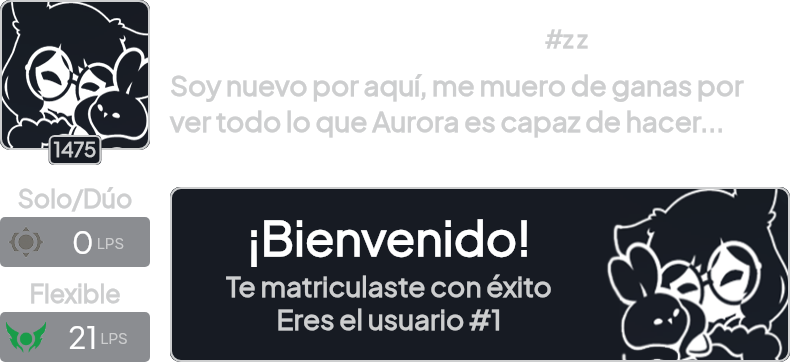
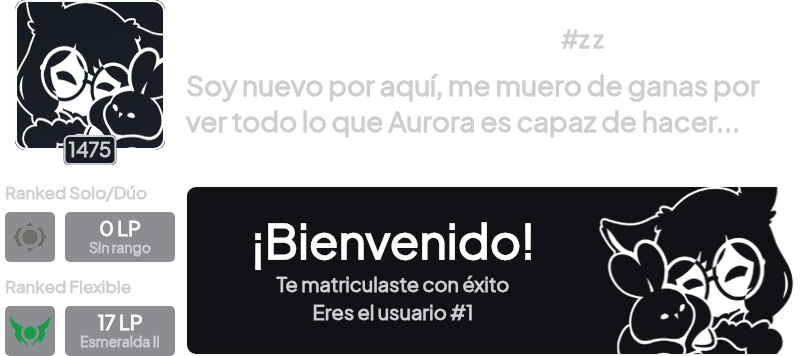
Nueva Tarjeta y cambios en rutas

diff --git a/Modulos/Principales/Matricula/canvas_matricula.js b/Modulos/Principales/Matricula/canvas_matricula.js
@@ -16,6 +16,22 @@ let avatarFijoCache = null;
 let bannerCache = null;
 const emblemasCache = new Map();
 
+const TRADUCTOR_RANGOS = {
+    'IRON': 'Hierro', 'BRONZE': 'Bronce', 'SILVER': 'Plata', 'GOLD': 'Oro',
+    'PLATINUM': 'Platino', 'EMERALD': 'Esmeralda', 'DIAMOND': 'Diamante',
+    'MASTER': 'Maestro', 'GRANDMASTER': 'Gran Maestro', 'CHALLENGER': 'Retador',
+    'UNRANKED': 'Sin rango'
+};
+
+function formatearRango(tier, rank) {
+    if (!tier || tier === 'UNRANKED') return 'Sin rango';
+    const tierTraducido = TRADUCTOR_RANGOS[tier] || tier;
+    if (['MASTER', 'GRANDMASTER', 'CHALLENGER'].includes(tier)) {
+        return tierTraducido; 
+    }
+    return `${tierTraducido} ${rank || ''}`.trim();
+}
+
 async function loadAvatarFijo() {
     if (avatarFijoCache) return avatarFijoCache;
     avatarFijoCache = await loadImage('https://i.imgur.com/gXeTtUr.png');
@@ -24,7 +40,7 @@ async function loadAvatarFijo() {
 
 async function loadBanner() {
     if (bannerCache) return bannerCache;
-    bannerCache = await loadImage('https://i.imgur.com/1LzQDJq.png');
+    bannerCache = await loadImage('https://i.imgur.com/FtTM90D.png');
     return bannerCache;
 }
 
@@ -82,123 +98,111 @@ function calcularAlturaTexto(ctx, texto, maxWidth, lineHeight, fontSize) {
     return (numLineas - 1) * lineHeight + fontSize;
 }
 
-async function dibujarBloqueRango(ctx, x, y, numeroLPs, rangoUrl, anchoFijo = null) {
-    const cuadradoPequenoSize = 50;
+async function dibujarBloqueRango(ctx, x, y, numeroLPs, rangoUrl, textoInferior) {
+    const cajaSize = 50;
+    const gap = 10; 
+    const anchoCajaTexto = 110; 
     const radio = 5;
-    const numeroFontSize = 30;
-    const lpsFontSize = numeroFontSize - 15;
-    const separacionTexto = 3;
 
     ctx.fillStyle = 'rgba(23, 27, 35, 0.5)';
     ctx.beginPath();
-    ctx.roundRect(x, y, cuadradoPequenoSize, cuadradoPequenoSize, [radio, 0, 0, radio]);
+    ctx.roundRect(x, y, cajaSize, cajaSize, radio);
     ctx.fill();
 
     try {
         const imagenRango = await loadEmblema(rangoUrl);
-        ctx.drawImage(imagenRango, x + 1, y, cuadradoPequenoSize, cuadradoPequenoSize);
+        ctx.drawImage(imagenRango, x, y, cajaSize, cajaSize);
     } catch {}
+
+    const rectTextoX = x + cajaSize + gap;
+    ctx.fillStyle = 'rgba(23, 27, 35, 0.5)';
+    ctx.beginPath();
+    ctx.roundRect(rectTextoX, y, anchoCajaTexto, cajaSize, radio);
+    ctx.fill();
 
     let numeroTexto = numeroLPs >= 1000 ? `${(numeroLPs / 1000).toFixed(1).replace('.0', '')}k` : numeroLPs.toString();
 
-    let rectTextoWidth;
-    if (anchoFijo) {
-        rectTextoWidth = anchoFijo - cuadradoPequenoSize;
-    } else {
-        ctx.font = `${numeroFontSize}px "Plus Jakarta Sans"`;
-        const nW = ctx.measureText(numeroTexto).width;
-        ctx.font = `${lpsFontSize}px "Plus Jakarta Sans"`;
-        const lW = ctx.measureText('LPS').width;
-        rectTextoWidth = nW + separacionTexto + lW + 20;
-    }
-
-    const rectTextoHeight = 50;
-    const rectTextoX = x + cuadradoPequenoSize;
-    const rectTextoY = y;
-
-    ctx.fillStyle = 'rgba(23, 27, 35, 0.5)';
-    ctx.beginPath();
-    ctx.roundRect(rectTextoX, rectTextoY, rectTextoWidth, rectTextoHeight, [0, radio, radio, 0]);
-    ctx.fill();
-
-    const textoInicio = 46;
-    const anchoAreaTexto = (cuadradoPequenoSize + rectTextoWidth) - textoInicio;
-
-    ctx.font = `${numeroFontSize}px "Plus Jakarta Sans"`;
-    const numeroWidth = ctx.measureText(numeroTexto).width;
-    ctx.font = `${lpsFontSize}px "Plus Jakarta Sans"`;
-    const lpsWidth = ctx.measureText('LPS').width;
-    const textoInicioX = x + textoInicio + (anchoAreaTexto - (numeroWidth + separacionTexto + lpsWidth)) / 2;
+    ctx.textAlign = 'center';
+    ctx.textBaseline = 'top';
 
     ctx.fillStyle = '#ffffff';
-    ctx.font = `${numeroFontSize}px "Plus Jakarta Sans"`;
-    ctx.textAlign = 'left';
-    ctx.textBaseline = 'middle';
-    ctx.fillText(numeroTexto, textoInicioX, rectTextoY + rectTextoHeight / 2);
+    ctx.font = 'bold 20px "Plus Jakarta Sans"';
+    ctx.fillText(`${numeroTexto} LP`, rectTextoX + (anchoCajaTexto / 2), y + 7);
 
     ctx.fillStyle = '#CDCECF';
-    ctx.font = `${lpsFontSize}px "Plus Jakarta Sans"`;
-    ctx.fillText('LPS', textoInicioX + numeroWidth + separacionTexto, rectTextoY + rectTextoHeight / 2);
+    ctx.font = 'bold 14px "Plus Jakarta Sans"'; 
+    ctx.fillText(textoInferior, rectTextoX + (anchoCajaTexto / 2), y + 29);
 
-    return cuadradoPequenoSize + rectTextoWidth;
+    return cajaSize + gap + anchoCajaTexto;
 }
 
 async function generarTarjetaMatricula(datos) {
     const { gameName, tagLine, nivel, iconoId, soloq, flex, descripcion, numeroUsuario } = datos;
 
+    // 👇 AJUSTE DE MARGEN GLOBAL (5px izquierda, 5px derecha) 👇
+    const margenLateral = 5;
+
     const radioEsquinas = 10;
-    const margenLateral = 20;
-    const cuadradoSize = 150;
-    const tituloX = cuadradoSize + margenLateral;
-    const tituloFontSize = 48;
+    const cuadradoSize = 150; 
+    
+    const anchoBloqueLPs = 170; 
+    const gapGeneral = 11; 
+    
+    // Todos los elementos X se empujan 5px a la derecha sumando margenLateral
+    const tituloX = margenLateral + anchoBloqueLPs + gapGeneral; 
+    const tituloFontSize = 48; 
     const tagFontSize = tituloFontSize - 25;
     const descripcionFontSize = tagFontSize + 5;
-    const maxWidth = 800 - tituloX - 10;
+    
+    // El margen derecho también será de 5px (800 - X - 5)
+    const maxWidth = 800 - tituloX - margenLateral; 
+    
     const lineHeight = descripcionFontSize + 8;
 
     const rectBadgeAlto = 20 + 10;
     const inicioBloquesY = cuadradoSize - (rectBadgeAlto / 2) + rectBadgeAlto + 22;
 
     const cuadradoPequenoSize = 50;
-    const margenTituloBloque = 5;
+    const tituloRangoFontSize = 17; 
 
-    // Aquí independizamos el tamaño del texto para que no se vea raro
-    const tituloRangoFontSize = 25; 
-
-    const tituloRango1Y = inicioBloquesY;
-    const bloque1Y = tituloRango1Y + tituloRangoFontSize + margenTituloBloque;
-    const tituloRango2Y = bloque1Y + cuadradoPequenoSize + 15;
-    const bloque2Y = tituloRango2Y + tituloRangoFontSize + margenTituloBloque;
+    const tituloRango1Y = inicioBloquesY - 3; 
+    const bloque1Y = tituloRango1Y + 28; 
+    const tituloRango2Y = bloque1Y + cuadradoPequenoSize + 16; 
+    const bloque2Y = tituloRango2Y + 28; 
+    
     const finBloque2 = bloque2Y + cuadradoPequenoSize;
 
     const canvas = createCanvas(800, finBloque2);
     const ctx = canvas.getContext('2d');
 
-    ctx.fillStyle = '#1e2328';
+    // Centrado dinámico del Avatar sobre los bloques que ahora inician en 5px
+    const avatarX = margenLateral + 10;
+
+    ctx.fillStyle = '#101216';
     ctx.beginPath();
-    ctx.roundRect(0, 0, cuadradoSize, cuadradoSize, radioEsquinas);
+    ctx.roundRect(avatarX, 0, cuadradoSize, cuadradoSize, radioEsquinas);
     ctx.fill();
 
     try {
         const imagen = await loadAvatarFijo();
         ctx.save();
         ctx.beginPath();
-        ctx.roundRect(0, 0, cuadradoSize, cuadradoSize, radioEsquinas);
+        ctx.roundRect(avatarX, 0, cuadradoSize, cuadradoSize, radioEsquinas);
         ctx.clip();
-        ctx.drawImage(imagen, 0, 0, cuadradoSize, cuadradoSize);
+        ctx.drawImage(imagen, avatarX, 0, cuadradoSize, cuadradoSize);
         ctx.restore();
     } catch {}
 
-    ctx.strokeStyle = '#CDCECF';
+    ctx.strokeStyle = '#fcfcfc';
     ctx.lineWidth = 2;
     ctx.beginPath();
-    ctx.roundRect(1, 1, cuadradoSize - 2, cuadradoSize - 2, radioEsquinas);
+    ctx.roundRect(avatarX + 1, 1, cuadradoSize - 2, cuadradoSize - 2, radioEsquinas);
     ctx.stroke();
 
     const nivelTexto = nivel.toString();
     ctx.font = obtenerFuente(nivelTexto, 20, 'bold');
     const rectBadgeAncho = ctx.measureText(nivelTexto).width + 10;
-    const rectBadgeX = (cuadradoSize - rectBadgeAncho) / 2;
+    const rectBadgeX = avatarX + (cuadradoSize - rectBadgeAncho) / 2;
     const rectBadgeY = cuadradoSize - (rectBadgeAlto / 2);
 
     ctx.fillStyle = 'rgba(23, 27, 35)';
@@ -247,63 +251,71 @@ async function generarTarjetaMatricula(datos) {
         'UNRANKED': 'https://i.imgur.com/Fmjqyl2.png'
     };
 
-    const centroAvatarX = cuadradoSize / 2;
-
-    // 1. Título "Solo/Dúo"
     ctx.fillStyle = '#CDCECF';
     ctx.font = `bold ${tituloRangoFontSize}px "Plus Jakarta Sans"`;
-    ctx.textAlign = 'center';
+    ctx.textAlign = 'left';
     ctx.textBaseline = 'top';
-    ctx.fillText('Solo/Dúo', centroAvatarX, tituloRango1Y);
+    // Se aplican los 5px de margen lateral a los títulos y cajas de rangos
+    ctx.fillText('Ranked Solo/Dúo', margenLateral, tituloRango1Y);
     
-    await dibujarBloqueRango(ctx, 0, bloque1Y, soloq ? soloq.lp : 0, soloq ? (EMBLEMAS[soloq.tier] || EMBLEMAS['UNRANKED']) : EMBLEMAS['UNRANKED'], cuadradoSize);
+    const textoDivisionSoloq = formatearRango(soloq?.tier, soloq?.rank);
+    await dibujarBloqueRango(ctx, margenLateral, bloque1Y, soloq ? soloq.lp : 0, soloq ? (EMBLEMAS[soloq.tier] || EMBLEMAS['UNRANKED']) : EMBLEMAS['UNRANKED'], textoDivisionSoloq);
 
-    // 2. Título "Flexible"
     ctx.fillStyle = '#CDCECF';
-    ctx.font = `bold ${tituloRangoFontSize}px "Plus Jakarta Sans"`; // ¡Aquí reseteamos el tamaño!
-    ctx.textAlign = 'center';
+    ctx.font = `bold ${tituloRangoFontSize}px "Plus Jakarta Sans"`;
+    ctx.textAlign = 'left';
     ctx.textBaseline = 'top';
-    ctx.fillText('Flexible', centroAvatarX, tituloRango2Y);
+    ctx.fillText('Ranked Flexible', margenLateral, tituloRango2Y);
     
-    await dibujarBloqueRango(ctx, 0, bloque2Y, flex ? flex.lp : 0, flex ? (EMBLEMAS[flex.tier] || EMBLEMAS['UNRANKED']) : EMBLEMAS['UNRANKED'], cuadradoSize);
+    const textoDivisionFlex = formatearRango(flex?.tier, flex?.rank);
+    await dibujarBloqueRango(ctx, margenLateral, bloque2Y, flex ? flex.lp : 0, flex ? (EMBLEMAS[flex.tier] || EMBLEMAS['UNRANKED']) : EMBLEMAS['UNRANKED'], textoDivisionFlex);
 
-    const bannerAlto = (bloque2Y + cuadradoPequenoSize) - tituloRango1Y;
-    ctx.fillStyle = '#1e2328';
-    ctx.beginPath();
-    ctx.roundRect(tituloX, tituloRango1Y, maxWidth, bannerAlto, radioEsquinas);
-    ctx.fill();
-
+    const bannerY = inicioBloquesY - 1; 
+    const bannerAlto = 169; 
+    
     try {
         const bannerImagen = await loadBanner();
         ctx.save();
         ctx.beginPath();
-        ctx.roundRect(tituloX, tituloRango1Y, maxWidth, bannerAlto, radioEsquinas);
+        ctx.roundRect(tituloX, bannerY, maxWidth, bannerAlto, radioEsquinas);
         ctx.clip();
-        ctx.drawImage(bannerImagen, tituloX, tituloRango1Y, maxWidth, bannerAlto);
+        ctx.drawImage(bannerImagen, tituloX, bannerY, maxWidth, bannerAlto);
         ctx.restore();
     } catch {}
 
-    ctx.strokeStyle = '#CDCECF';
+    ctx.strokeStyle = '#fcfcfc';
+    ctx.lineWidth = 2;
     ctx.beginPath();
-    ctx.roundRect(tituloX + 1, tituloRango1Y + 1, maxWidth - 2, bannerAlto - 2, radioEsquinas);
+    ctx.moveTo(tituloX + maxWidth - 16, bannerY);
+    ctx.lineTo(tituloX + radioEsquinas, bannerY);
+    ctx.arcTo(tituloX, bannerY, tituloX, bannerY + radioEsquinas, radioEsquinas);
+    ctx.lineTo(tituloX, bannerY + bannerAlto - radioEsquinas);
+    ctx.arcTo(tituloX, bannerY + bannerAlto, tituloX + radioEsquinas, bannerY + bannerAlto, radioEsquinas);
+    ctx.lineTo(tituloX + maxWidth - 17, bannerY + bannerAlto);
     ctx.stroke();
 
-    const areaTextoCentroX = tituloX + 1 + (436 / 2);
-    const inicioYBanner = (tituloRango1Y + (bannerAlto / 2)) - ((tituloFontSize + 10 + descripcionFontSize + 5 + descripcionFontSize) / 2);
-
-    // 3. Texto del Banner (centrado en su lugar correcto)
-    ctx.fillStyle = '#ffffff';
-    ctx.font = `bold ${tituloFontSize}px "Plus Jakarta Sans"`;
-    ctx.textAlign = 'center';
-    ctx.textBaseline = 'top'; // ¡El reset mágico para que no se baje el texto!
+    const anchoLibreBanner = 414; 
+    const areaTextoCentroX = tituloX + (anchoLibreBanner / 2);
     
+    const tamañoTituloBienvenido = tituloFontSize; 
+    const tamañoSubtitulos = 20; 
+    const gapTitulosBanner = 8; 
+    
+    const alturaTotalTextosBanner = tamañoTituloBienvenido + gapTitulosBanner + tamañoSubtitulos + gapTitulosBanner + tamañoSubtitulos;
+    const inicioYBanner = (bannerY + (bannerAlto / 2)) - (alturaTotalTextosBanner / 2);
+
+    ctx.fillStyle = '#ffffff';
+    ctx.font = `bold ${tamañoTituloBienvenido}px "Plus Jakarta Sans"`;
+    ctx.textAlign = 'center';
+    ctx.textBaseline = 'top'; 
     ctx.fillText('¡Bienvenido!', areaTextoCentroX, inicioYBanner);
 
     ctx.fillStyle = '#CDCECF';
-    ctx.font = obtenerFuente('Te matriculaste con éxito', descripcionFontSize, 'bold');
-    ctx.fillText('Te matriculaste con éxito', areaTextoCentroX, inicioYBanner + tituloFontSize + 10);
-    ctx.font = obtenerFuente(`Eres el usuario #${numeroUsuario || 1}`, descripcionFontSize, 'bold');
-    ctx.fillText(`Eres el usuario #${numeroUsuario || 1}`, areaTextoCentroX, inicioYBanner + tituloFontSize + 10 + descripcionFontSize + 5);
+    ctx.font = obtenerFuente('Te matriculaste con éxito', tamañoSubtitulos, 'bold');
+    ctx.fillText('Te matriculaste con éxito', areaTextoCentroX, inicioYBanner + tamañoTituloBienvenido + gapTitulosBanner);
+    
+    ctx.font = obtenerFuente(`Eres el usuario #${numeroUsuario || 1}`, tamañoSubtitulos, 'bold');
+    ctx.fillText(`Eres el usuario #${numeroUsuario || 1}`, areaTextoCentroX, inicioYBanner + tamañoTituloBienvenido + gapTitulosBanner + tamañoSubtitulos + gapTitulosBanner);
 
     return canvas.toBuffer('image/png');
 }

diff --git a/Modulos/Utilidades/Canvas/cmd_boceto.js b/Modulos/Utilidades/Canvas/cmd_boceto.js
@@ -15,7 +15,7 @@ module.exports = [
             
             // 1. Cargamos el diseño inicial
             delete require.cache[require.resolve('./diseno_perfil.js')];
-            let { generarBoceto } = require('./diseno_perfil.js');
+            let { generarBoceto } = require('../../Principales/Perfil/canvas_resumen.js');
             
             let buffer = await generarBoceto();
             let attachment = new AttachmentBuilder(buffer, { name: 'boceto.png' });
@@ -38,7 +38,7 @@ module.exports = [
                             // Borramos la versión vieja de la memoria
                             delete require.cache[require.resolve('./diseno_perfil.js')];
                             // Traemos la versión recién guardada
-                            const { generarBoceto: nuevoGenerar } = require('./diseno_perfil.js');
+                            const { generarBoceto: nuevoGenerar } = require('../../Principales/Perfil/canvas_resumen.js');
                             
                             const nuevoBuffer = await nuevoGenerar();
                             const nuevoAttachment = new AttachmentBuilder(nuevoBuffer, { name: 'boceto.png' });

diff --git a/Modulos/Principales/Matricula/bitacora.js b/Modulos/Principales/Matricula/bitacora.js
@@ -2,7 +2,7 @@
 const { EmbedBuilder, ActionRowBuilder, ButtonBuilder, ButtonStyle, AttachmentBuilder } = require('discord.js');
 const { createCanvas, loadImage } = require('canvas');
 const Usuario = require('../../../Base_Datos/MongoDB/Usuario.js');
-const { generarTarjetaMatricula } = require('./tarjeta_matricula');
+const { generarTarjetaMatricula } = require('./canvas_matricula.js');
 const { regionAPlatforma, obtenerSummoner, obtenerRangos } = require("../../../API's/Riot/lol_api");
 const { obtenerRangoTFT } = require("../../../API's/Riot/tft_api");
 

diff --git a/Modulos/Principales/Perfil/perfil.js b/Modulos/Principales/Perfil/perfil.js
@@ -4,8 +4,8 @@ const fsSync = require('fs');
 const path = require('path');
 const Usuario = require('../../../Base_Datos/MongoDB/Usuario');
 
-const { generarTarjetaMatricula } = require('../Matricula/tarjeta_matricula.js');
-const { generarBoceto } = require('../../Utilidades/Canvas/diseno_perfil.js');
+const { generarTarjetaMatricula } = require('../Matricula/canvas_matricula.js');
+const { generarBoceto } = require('./canvas_resumen.js');
 
 // 🎨 Paleta de colores ANSI
 const c = { v: '\x1b[32m', r: '\x1b[31m', a: '\x1b[33m', b: '\x1b[0m' };

diff --git a/Modulos/Principales/Matricula/matricula.js b/Modulos/Principales/Matricula/matricula.js
@@ -3,7 +3,7 @@ const { AttachmentBuilder, EmbedBuilder } = require('discord.js');
 const fs = require('fs');
 const fsPromises = require('fs').promises; 
 const path = require('path');
-const { generarTarjetaMatricula } = require('./tarjeta_matricula');
+const { generarTarjetaMatricula } = require('./canvas_matricula.js');
 const { regionAPlatforma, verificarCuentaRiot, obtenerSummoner, obtenerRangos } = require("../../../API's/Riot/lol_api");
 const { obtenerRangoTFT } = require("../../../API's/Riot/tft_api");
 
